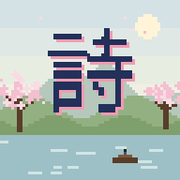
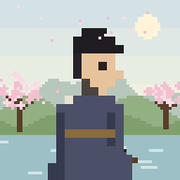
앱 아이콘을 봄 산수 속 시인 반신으로
아이콘 가운데의 「詩」 글자 대신 게임에 나오는 시인(두건과 남색 도포)을 세 배로 키운 반신을 띠까지 보이게 두고, 머리 위로 벚꽃잎을 흩날린다. 아이폰이 새 아이콘을 받도록 주소에 v=4를 붙이고 서비스 워커 캐시 이름을 올린다.

Claude-Session: https://claude.ai/code/session_013GEQhN3ERRqfey7qzKR9Tk

diff --git a/index.html b/index.html
@@ -11,7 +11,7 @@
     <meta name="apple-mobile-web-app-status-bar-style" content="default" />
     <link rel="manifest" href="./manifest.webmanifest" />
     <link rel="icon" type="image/png" href="./favicon.png" />
-    <link rel="apple-touch-icon" sizes="180x180" href="./apple-touch-icon.png?v=3" />
+    <link rel="apple-touch-icon" sizes="180x180" href="./apple-touch-icon.png?v=4" />
     <link rel="preconnect" href="https://fonts.googleapis.com" />
     <link rel="preconnect" href="https://fonts.gstatic.com" crossorigin />
     <link href="https://fonts.googleapis.com/css2?family=Noto+Serif+KR:wght@400;600;800&family=Noto+Serif+TC:wght@500;700;900&display=swap" rel="stylesheet" />

diff --git a/public/sw.js b/public/sw.js
@@ -1,6 +1,6 @@
 // 詩畫 오프라인 지원: 한 번 연 파일은 저장해 두고, 인터넷이 없을 때 그것으로 연다.
 // 페이지(index.html)는 늘 새 판을 먼저 받아 오고, 받지 못하면 저장해 둔 판을 쓴다.
-const CACHE = 'sihwa-v4'
+const CACHE = 'sihwa-v5'
 
 self.addEventListener('install', (e) => {
   e.waitUntil(caches.open(CACHE).then((c) => c.addAll(['./', './manifest.webmanifest', './icon-192.png'])))
